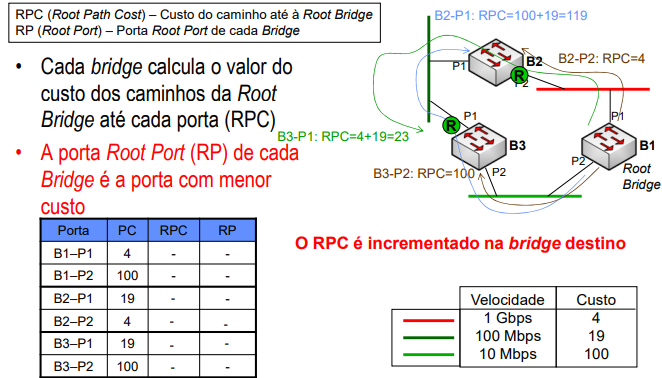
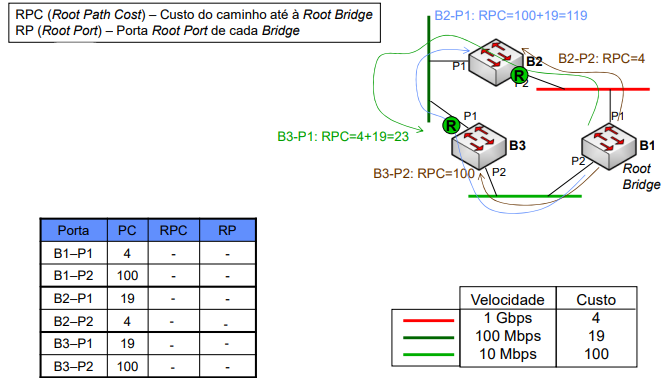
*UPDATED* ri Protocolo Spanning Tree (STP) notes

Changed region(s): [[0.0604, 0.1455, 0.4532, 0.3492], [0.0604, 0.3783, 0.4532, 0.582], [0.423, 0.6111, 0.9668, 0.6693]]

diff --git a/5th Semester/ri/notes/3 - Protocolo Spanning Tree (STP).md b/5th Semester/ri/notes/3 - Protocolo Spanning Tree (STP).md
@@ -213,6 +213,8 @@
 
 * Cada _bridge_ calcula o seu RPC para cada porta sendo a com menor valor eleita _root port_ e em caso de empate, a porta com o menor valor de BID.
 
+* O RPC é incrementado na _bridge_ de destino.
+
 ### __Eleição da _Designated Port___
 
 <div align=center>
